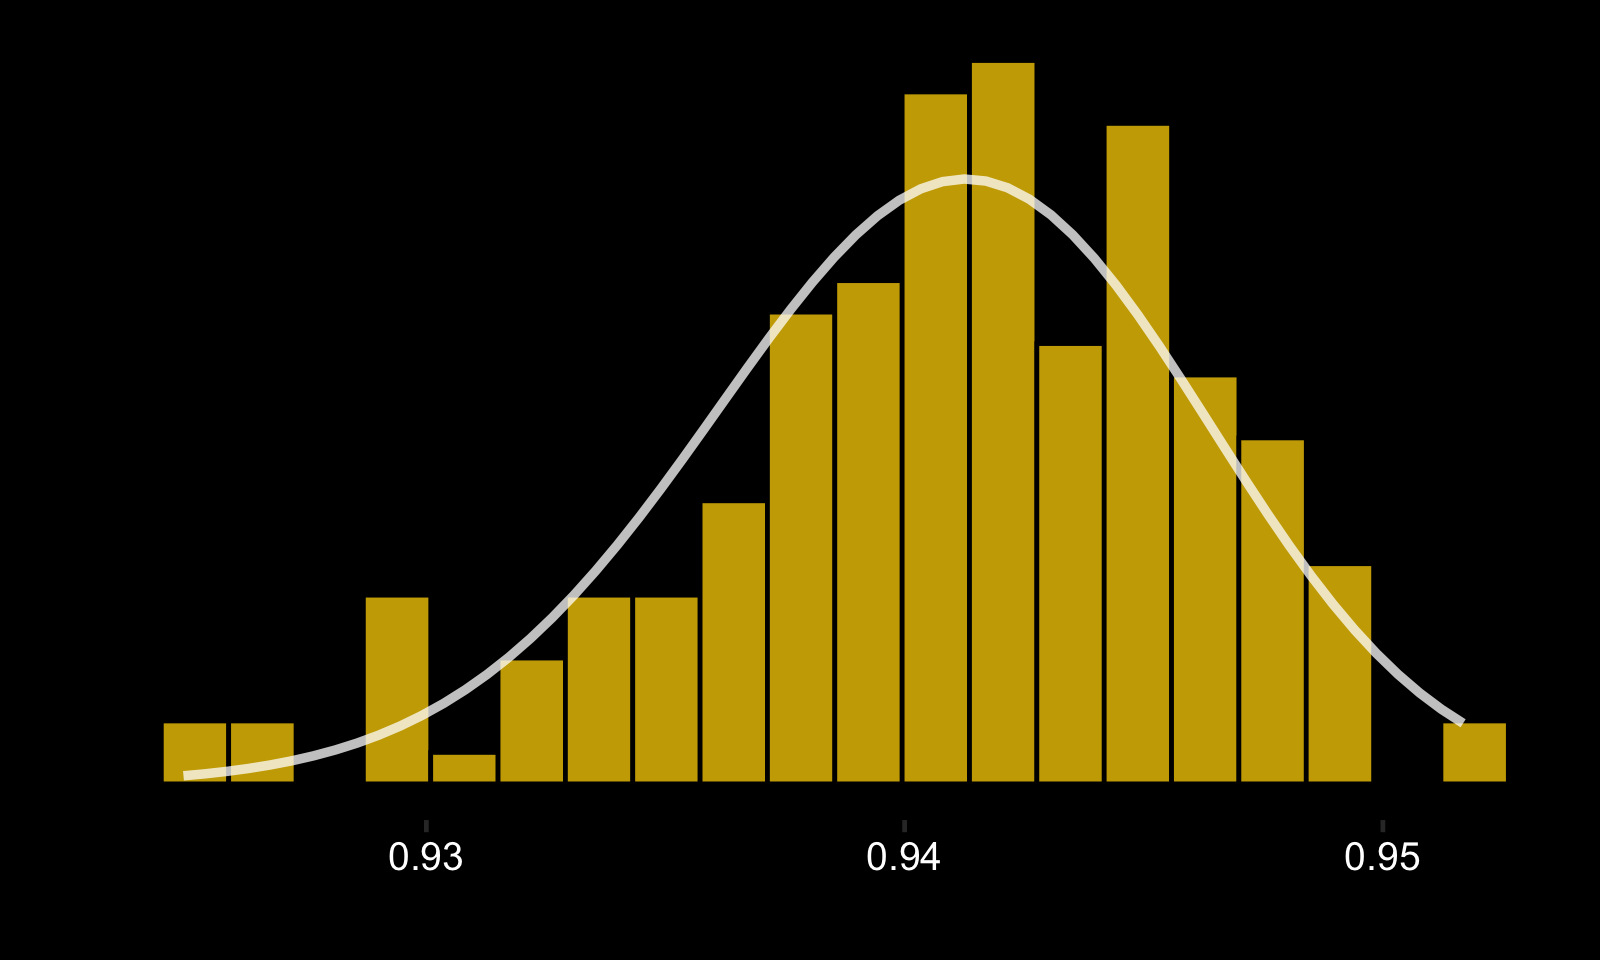
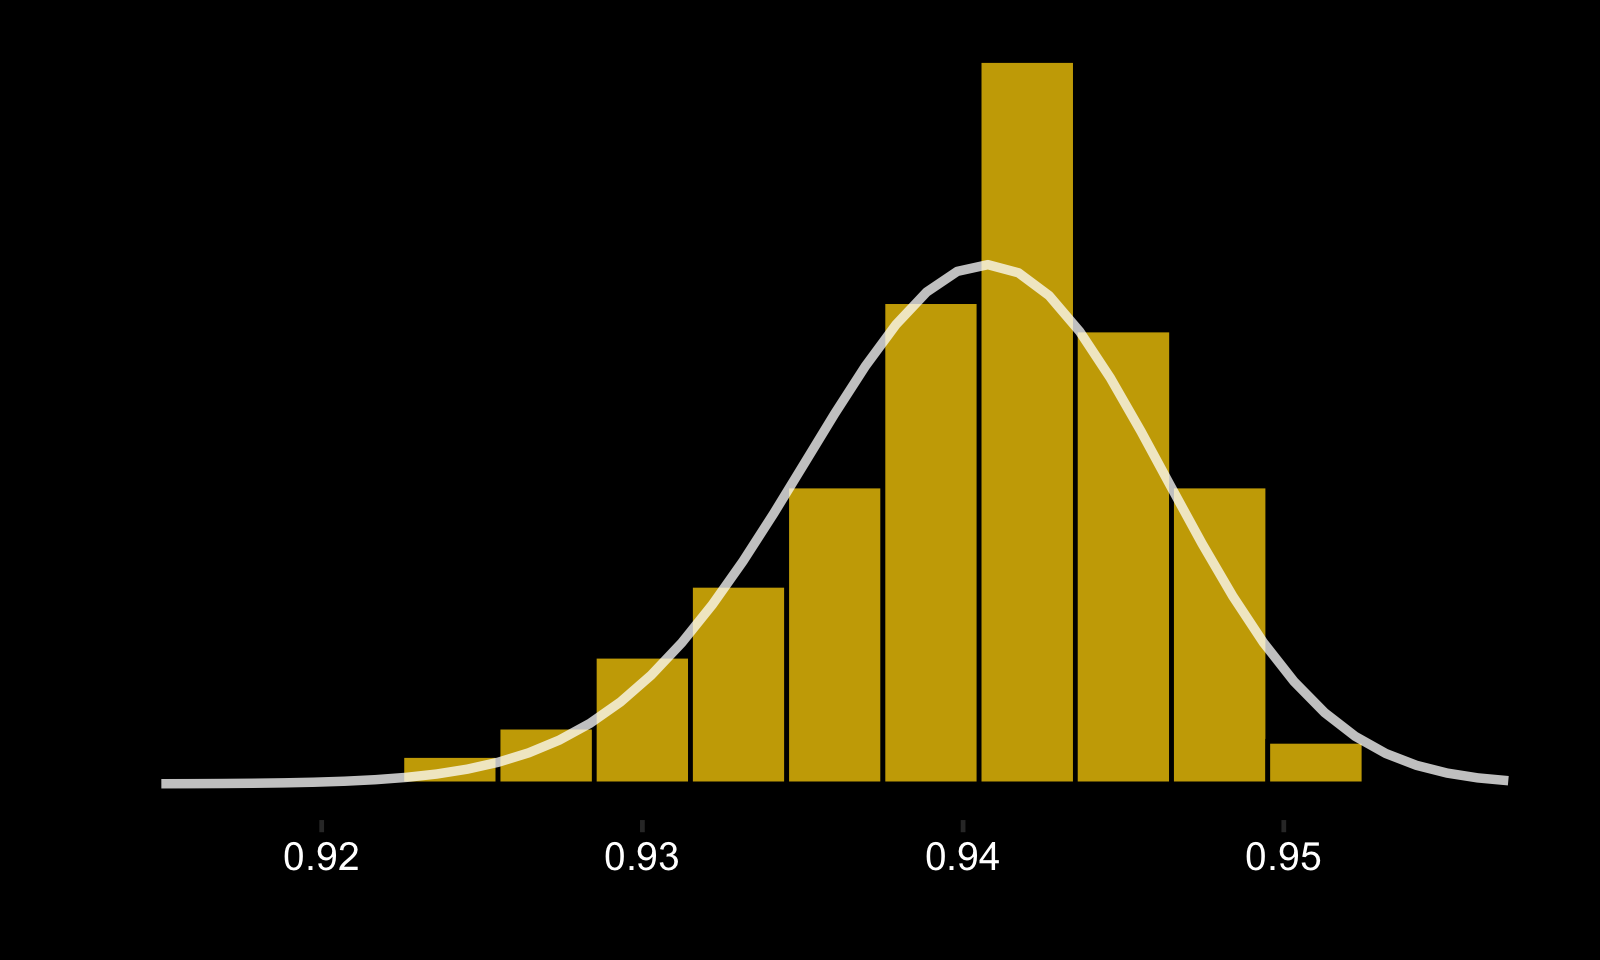
add plot 5-2

diff --git a/_posts/2023-05-22-goalie-consistency-5.md b/_posts/2023-05-22-goalie-consistency-5.md
@@ -29,9 +29,17 @@ We can adjust a goalie's save percentage by taking into account the expectation 
 <br><b>Adjusted Save Percentage (AdjSP) = MSV + (FSV% - xFSV%)</b>
 </p>
 <p>
-For the sake of simplicity, let's flip the adjusted save percentage to the adjusted failure rate (1 - AdjSP) and plot out the distribution of career rates for goalies having faced more than 10 expected goals.
+For the sake of simplicity, let's flip the adjusted save percentage to the adjusted failure rate (1 - AdjSP) and plot the distribution of career rates for goalies having faced more than 10 expected goals. We'll include a fitted beta distribution in white. The goodness of fit, which frankly was questionable in the last post, looks better this time. It'll improve as we try different distributions in future posts.
 <p>
 <div style="text-align: center"> <img src="https://spazznolo.github.io/figs/goalie-five-one.png" width="60%" length="150"/></div>
+</p>
+<p>
+Given that we are once again fitting a beta distribution, the rest of the work is the same as the previous post.
+</p>
+<p>
+Revisiting Jake Oettinger vs Jeremy Swayman:
+<p>
+<div style="text-align: center"> <img src="https://spazznolo.github.io/figs/goalie-five-two.png" width="60%" length="150"/></div>
 </p>
 <p>
 Code available here: <a href="https://github.com/spazznolo/goalie-consistency/blob/main/post_5.R">https://github.com/spazznolo/goalie-consistency/blob/main/post_5.R</a>
